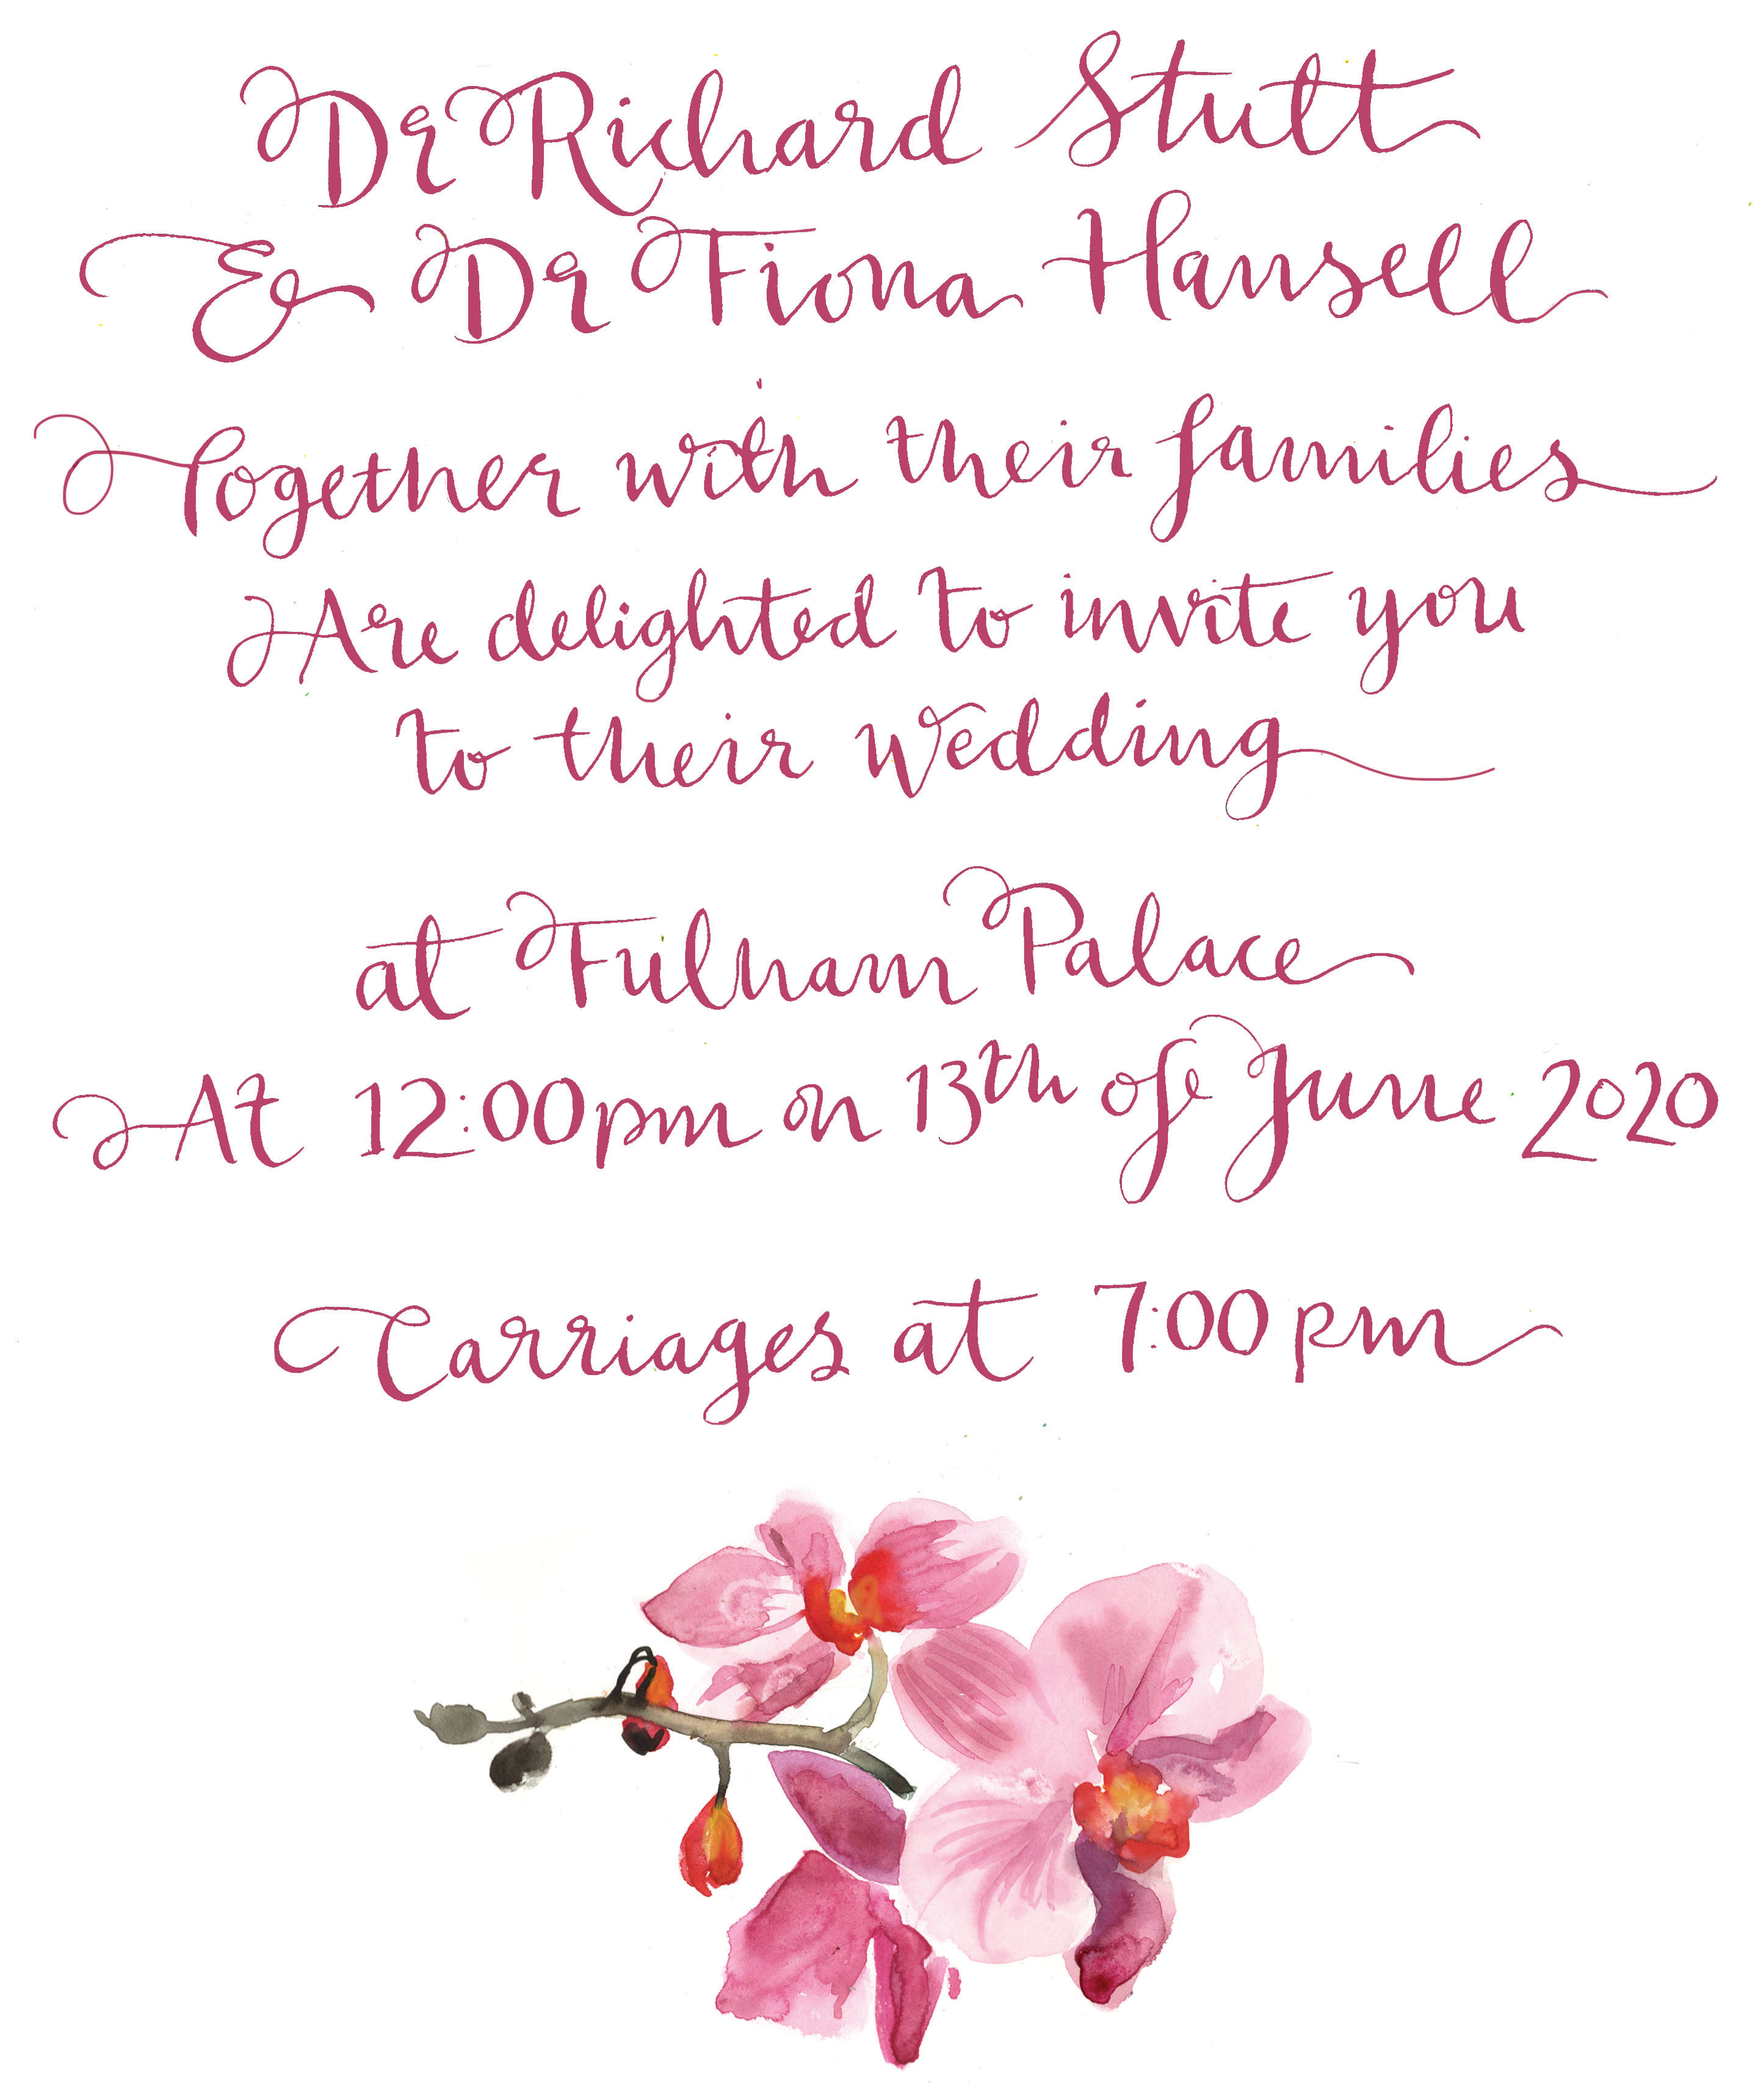
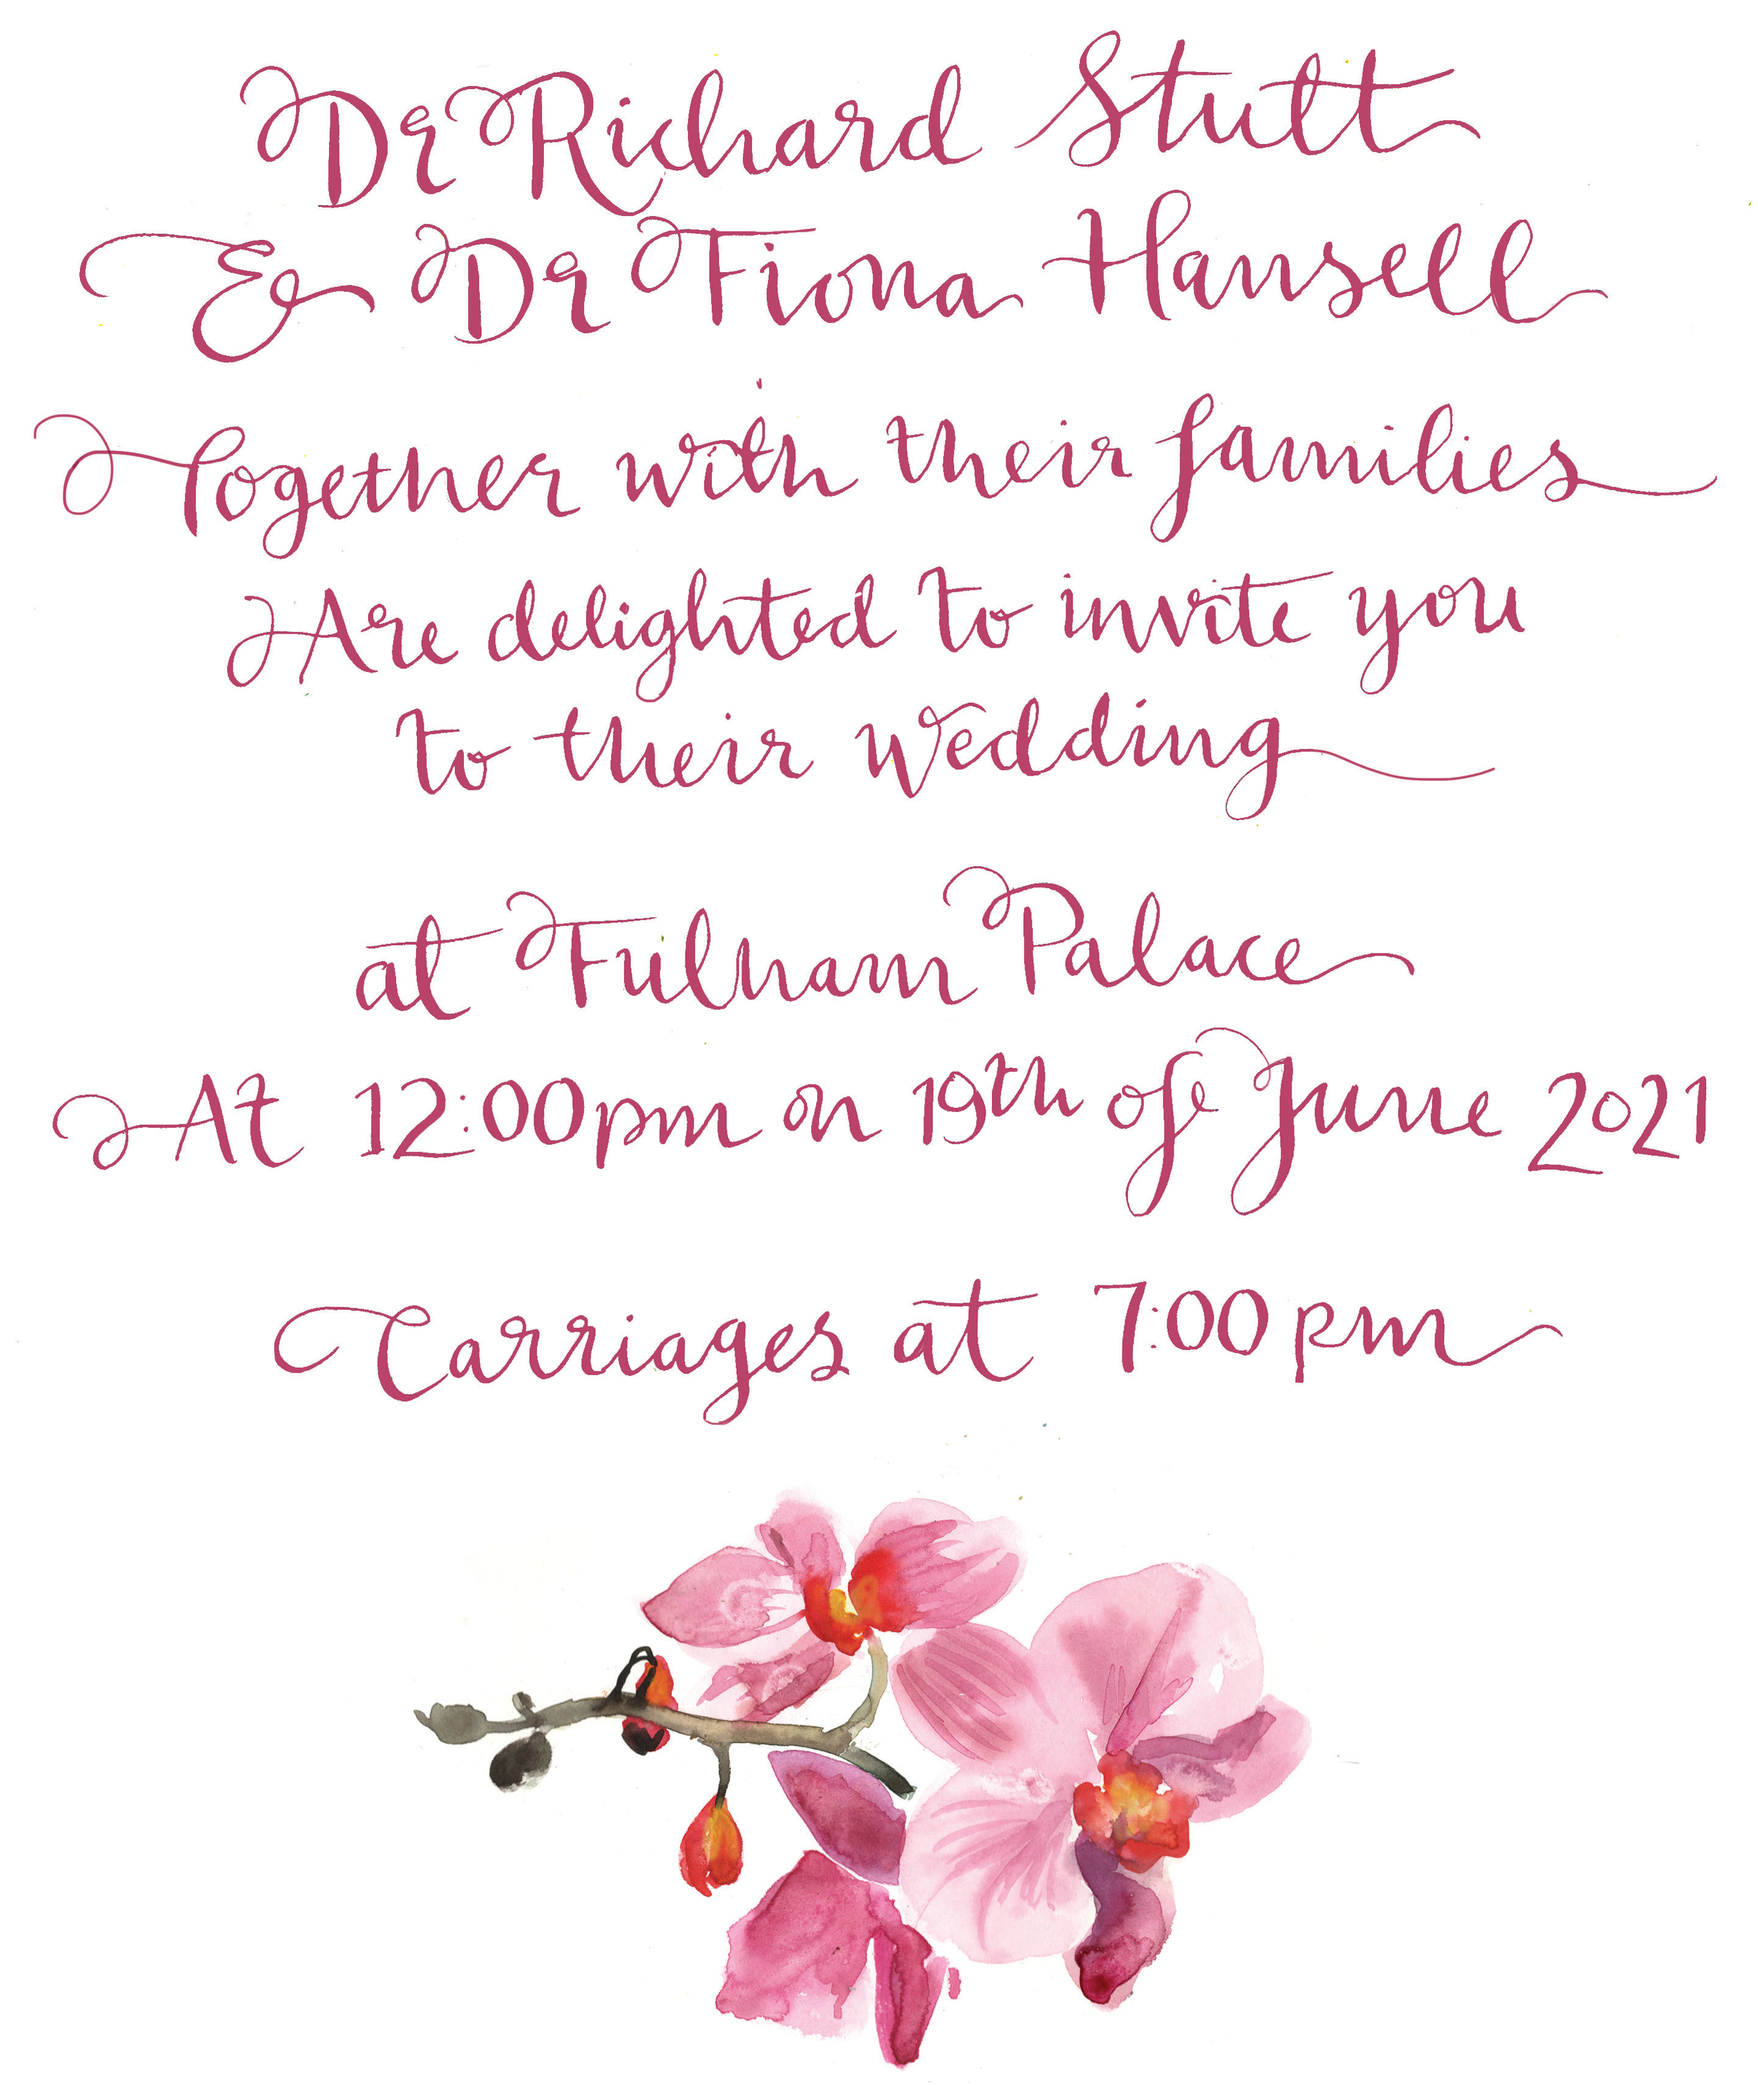
Update for wedding delay

Changed region(s): [[0.625, 0.4965, 0.9688, 0.5896], [0.5, 0.4965, 0.5938, 0.5585]]

diff --git a/index.html b/index.html
@@ -50,6 +50,13 @@
 <!-- Second Container -->
 <div class="container-fluid bg-2 text-center">
   <div>
+    <img src="stop_text.png" class="img-responsive margin" style="display:inline" alt="Wedding Delay 2021">
+  </div>
+</div>
+
+<!-- Second Container -->
+<div class="container-fluid bg-2 text-center">
+  <div>
     <img src="DetailsRSVPForm.png" class="img-responsive margin" style="display:inline" alt="RSVP Online">
   </div>
   <div>
@@ -62,7 +69,7 @@
     <img src="DetailsRSVPPost.png" class="img-responsive margin" style="display:inline" alt="RSVP by Post Fiona Hansell 22 The Beeches, Woodhead Drive, Cambridge, CB4 1FY">
   </div>
   <div>
-    <h3 class="margin"><p style="font-size:64px">Please RSVP by 13th April 2020</p></h3>
+    <h3 class="margin"><p style="font-size:64px">Please RSVP by 19th April 2021</p></h3>
   </div>
 </div>
 
@@ -86,7 +93,7 @@
   <div class="row">
     <div class="col-sm-4"> 
       <p>Timings</p>
-      <img src="DetailsTime.png" class="img-responsive margin" style="width:100%" alt="13th June 2020 1200, carriages 1900">
+      <img src="DetailsTime.png" class="img-responsive margin" style="width:100%" alt="19th June 2021 1200, carriages 1900">
     </div>
     <div class="col-sm-4"> 
       <p>Gifts</p>
@@ -106,7 +113,7 @@
 
 <!-- Footer -->
 <footer class="container-fluid bg-4 text-center">
-  <iframe src="https://free.timeanddate.com/countdown/i7748tnv/n136/cf105/cm0/cu4/ct0/cs0/ca0/co1/cr0/ss0/cacfff/cpcfff/pc2f2f2f/tcf1d8e7/fs100/szw256/szh108/tatTime%20left%20to%20Fi%20and%20Rich's%20wedding/tacfff/tptTime%20since%20Fi%20and%20Rich's%20wedding/tpcfff/iso2020-06-13T12:00:00" allowTransparency="true" frameborder="0" width="256" height="108"></iframe>
+  <iframe src="https://free.timeanddate.com/countdown/i7748tnv/n136/cf105/cm0/cu4/ct0/cs0/cacfff/co1/cr0/ss0/cac000/cpcfff/pc2f2f2f/tcf1d8e7/fs100/tatTime%20left%20to%20Fi%20and%20Rich's%20wedding/tacfff/tptTime%20since%20Fi%20and%20Rich's%20wedding/tpcfff/iso2021-06-19T12:00:00" allowTransparency="true" frameborder="0" width="320" height="125"></iframe>
 </footer>
 
 </body>
